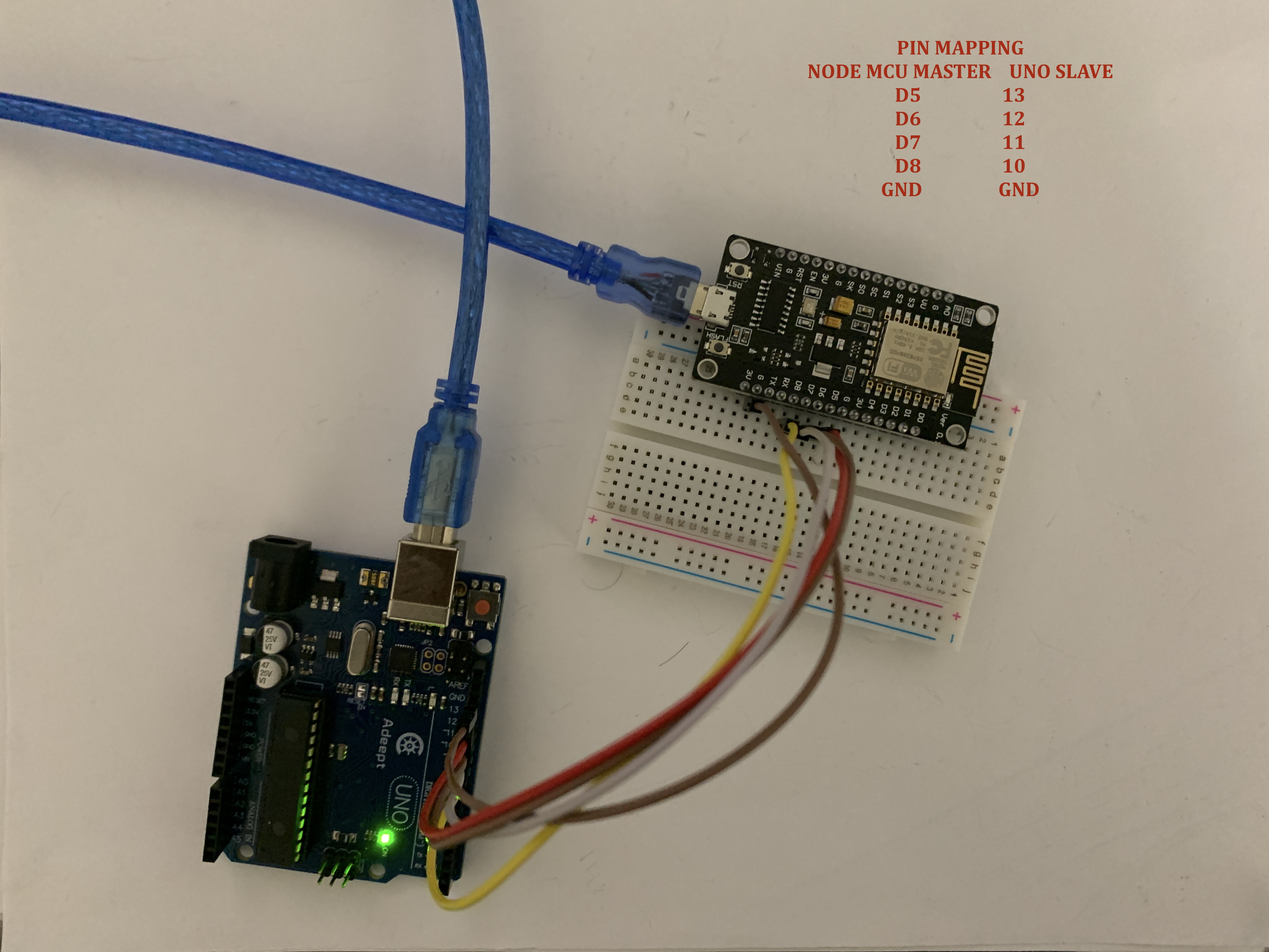
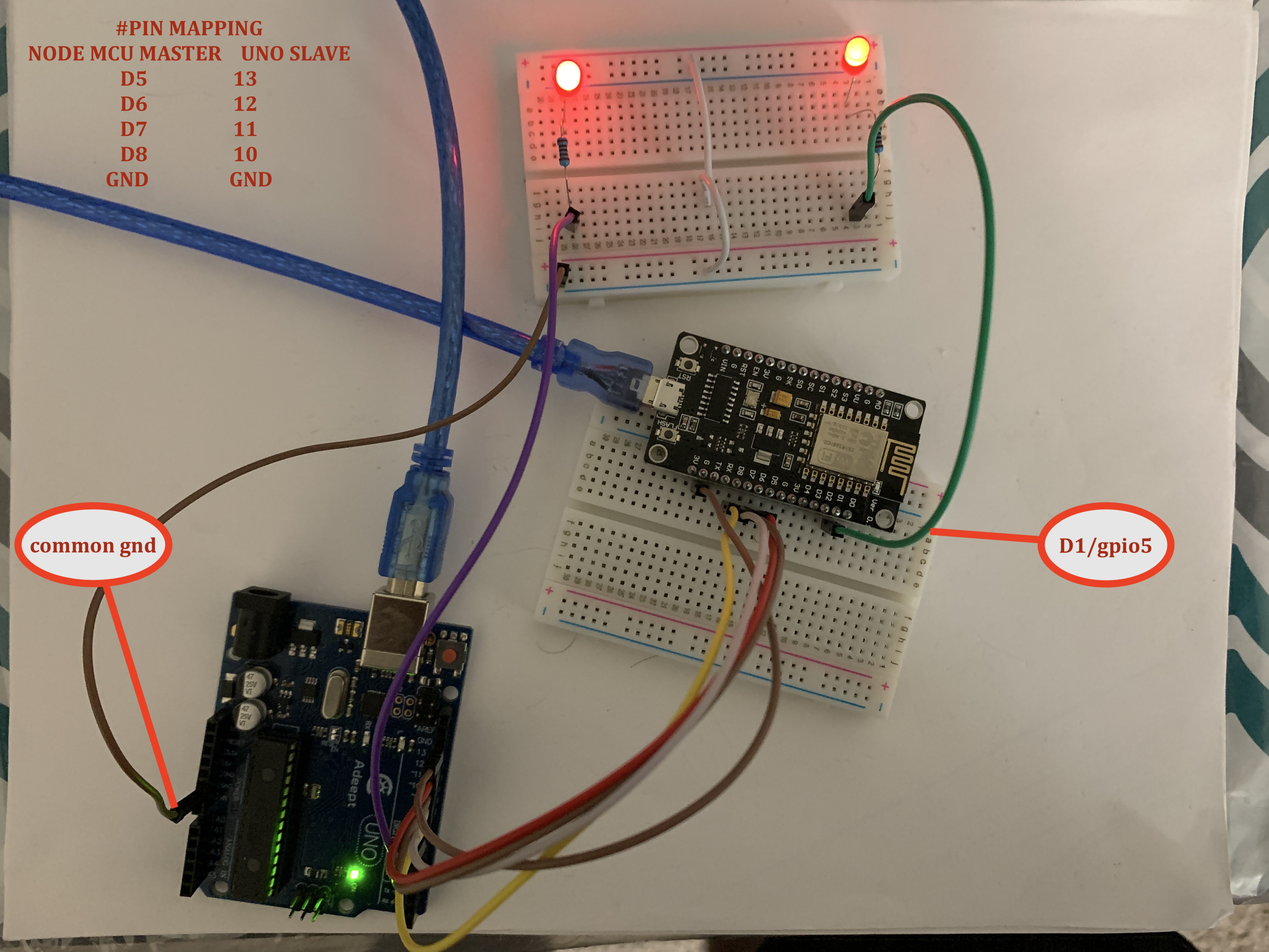
adding pi-nodemcu-master-uno-slave-string-bidirection-communication

diff --git a/APPLICATION/spi-nodemcu-master-uno-slave-string-bidirection-communication/README.md b/APPLICATION/spi-nodemcu-master-uno-slave-string-bidirection-communication/README.md
@@ -17,6 +17,19 @@ connect pin 13 of  uno to the pin D7 of Node mcu
 connect pin 10 of  uno to the pin D8 of Node mcu
 connect the gnd of  uno to the gnd of the Node mcu 
 
+
+then connect the gnd from uno the common breadboard gnd line 
+connect the pin 7 from uno to the breadboard 
+then connect the resistor to the pin 7 connect in breadboard 
+then connect the long leg of the led to the resistor 
+then connect the short leg of the led to the breadboard gnd line 
+
+
+connect the D1/gpio 5 pin from nodemcu to the breadbboard 
+then connect the resitor to the D1/gpio 5 pin in breadboard 
+then connect the long leg of the led to the resistor 
+then connect the short leg of the led to the breadboard gnd line 
+
 ```
 
 
